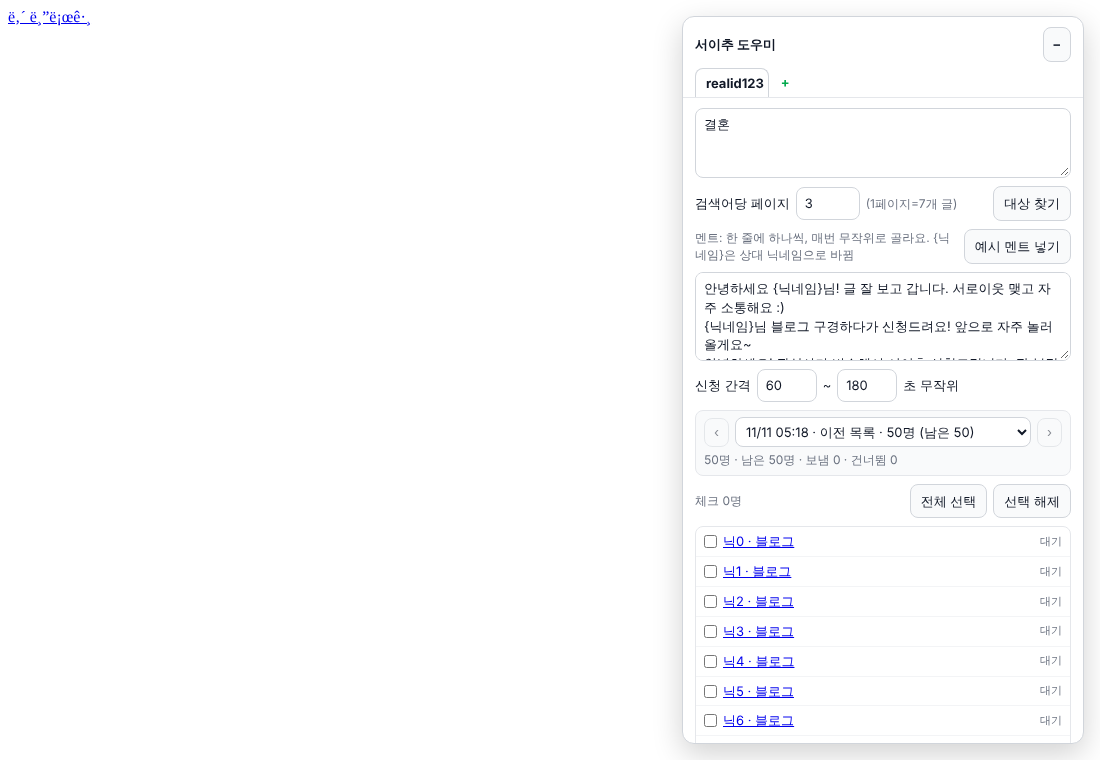
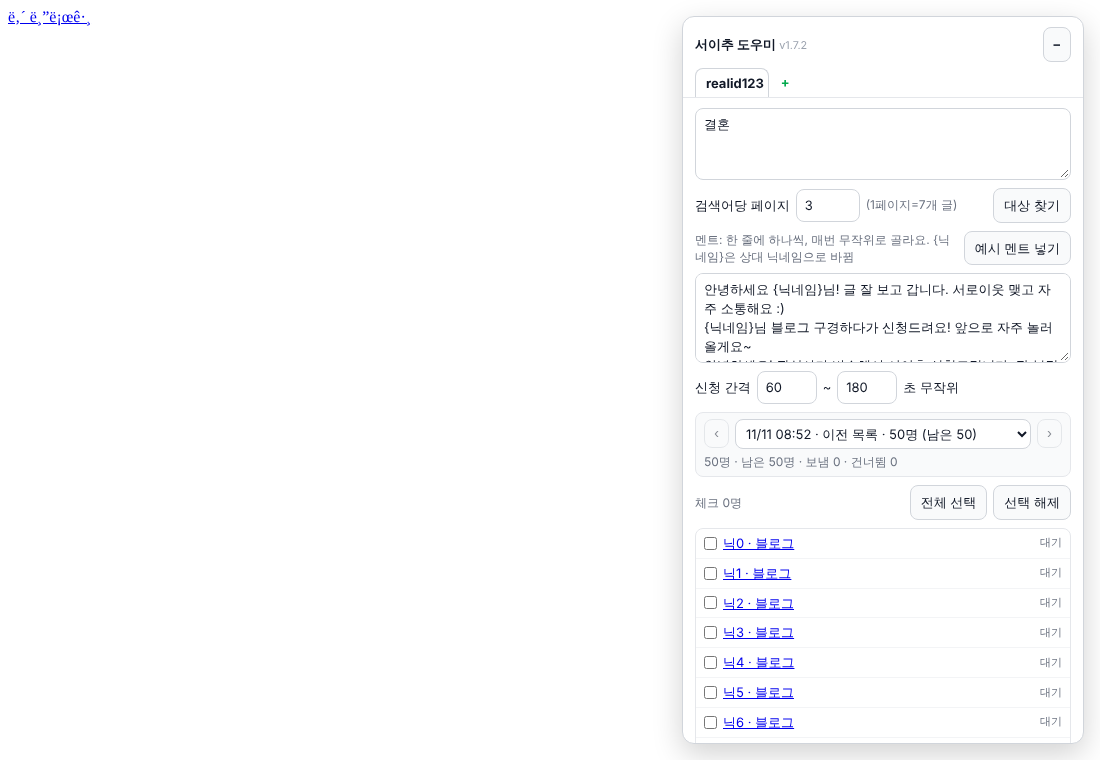
서이추 도우미: 창 제목에 버전 표시, 입력칸 크기 스타일 강제
네이버 페이지 스타일에 밀려 입력칸이 줄어들거나 크기 조절이 안 되는 경우를
막기 위해 크기 관련 스타일을 !important 로 지정.

Claude-Session: https://claude.ai/code/session_014ZM6Z74XAqEwoYQEqCXLGT

diff --git a/seoichoo/userscript/seoichoo-helper.user.js b/seoichoo/userscript/seoichoo-helper.user.js
@@ -1,7 +1,7 @@
 // ==UserScript==
 // @name         서이추 도우미 (반자동)
 // @namespace    https://github.com/koiiworld/refinder
-// @version      1.7.1
+// @version      1.7.2
 // @updateURL    https://raw.githubusercontent.com/koiiworld/refinder/claude/seoichoo-automation-program-50awjg/seoichoo/userscript/seoichoo-helper.user.js
 // @downloadURL  https://raw.githubusercontent.com/koiiworld/refinder/claude/seoichoo-automation-program-50awjg/seoichoo/userscript/seoichoo-helper.user.js
 // @description  네이버 블로그 서로이웃 대상 검색 + 신청창 멘트 자동 입력. 보내기(확인)는 직접 누릅니다. 계정별 탭 지원.
@@ -23,6 +23,7 @@
   "use strict";
 
   // ---------------------------------------------------------------- 공통 설정
+  const VERSION = "1.7.2";
   const DAILY_LIMIT = 100;      // 네이버 정책상 계정당 하루 서이추 최대
   const SESSION_LIMIT = 20;     // 20명마다 쉬어가기 알림
   const DEFAULT_COOLDOWN = 60;      // 신청 간격 최소(초)
@@ -334,7 +335,7 @@
     };
 
     const css = `
-      #sc-panel{position:fixed;right:16px;bottom:16px;top:16px;width:400px;z-index:2147483647;
+      #sc-panel{position:fixed !important;right:16px;bottom:16px;top:16px !important;height:auto !important;max-height:none !important;width:400px;z-index:2147483647;
         display:flex;flex-direction:column;background:#fff;color:#111827;border:1px solid #d1d5db;border-radius:12px;
         box-shadow:0 10px 30px rgba(0,0,0,.18);font:13px/1.45 -apple-system,'Apple SD Gothic Neo','Malgun Gothic',sans-serif}
       #sc-panel *{box-sizing:border-box}
@@ -350,8 +351,9 @@
       #sc-panel .add{border:0;background:none;padding:4px 8px;color:#03a94d;font-weight:700}
       #sc-panel .body{padding:10px 12px;overflow:auto;display:flex;flex-direction:column;gap:8px;flex:1;min-height:0}
       #sc-panel .body > *{flex-shrink:0}
-      #sc-panel textarea{min-height:64px;resize:vertical}
-      #sc-panel.min{top:auto}
+      #sc-panel textarea{min-height:72px !important;height:auto;resize:vertical !important;overflow:auto !important;flex-shrink:0 !important}
+      #sc-panel .body > *{flex-shrink:0 !important}
+      #sc-panel.min{top:auto !important}
       #sc-panel textarea,#sc-panel input{width:100%;padding:6px 8px;border:1px solid #d1d5db;border-radius:8px;font:inherit;color:inherit;background:#fff}
       #sc-panel button{padding:7px 10px;border:1px solid #d1d5db;border-radius:8px;background:#f9fafb;color:#111827;font:inherit;cursor:pointer;white-space:nowrap}
       #sc-panel .tabs button{border-radius:0}
@@ -403,7 +405,7 @@
     const minBtn = el("button", { onclick: () => panel.classList.toggle("min"), title: "접기/펴기" }, "–");
 
     const panel = el("div", { id: "sc-panel" },
-      el("header", {}, el("span", {}, "서이추 도우미"), minBtn),
+      el("header", {}, el("span", {}, "서이추 도우미 ", el("small", { style: "color:#9ca3af;font-weight:400" }, "v" + VERSION)), minBtn),
       tabs,
       el("div", { class: "body" },
         warn,
